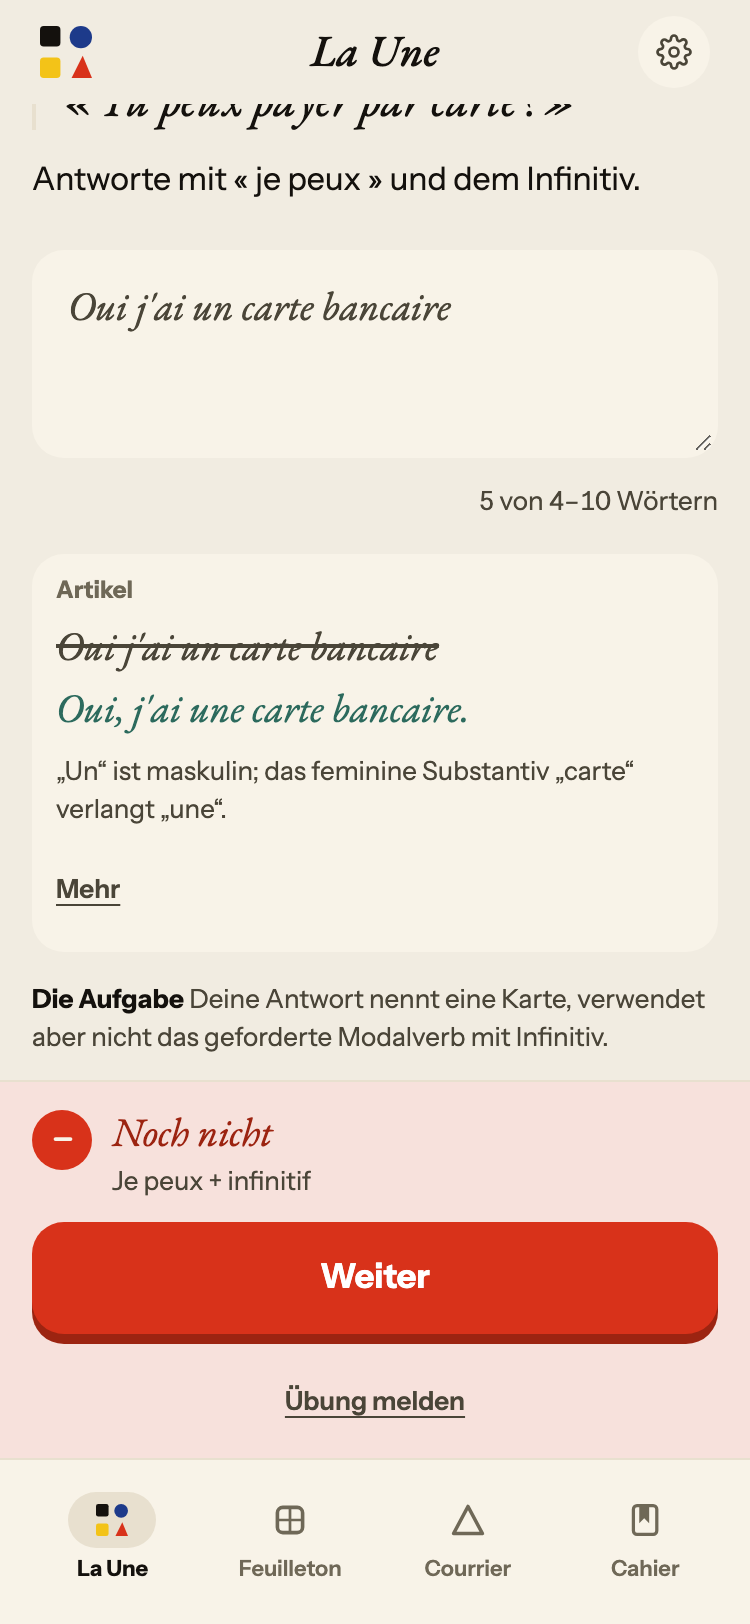
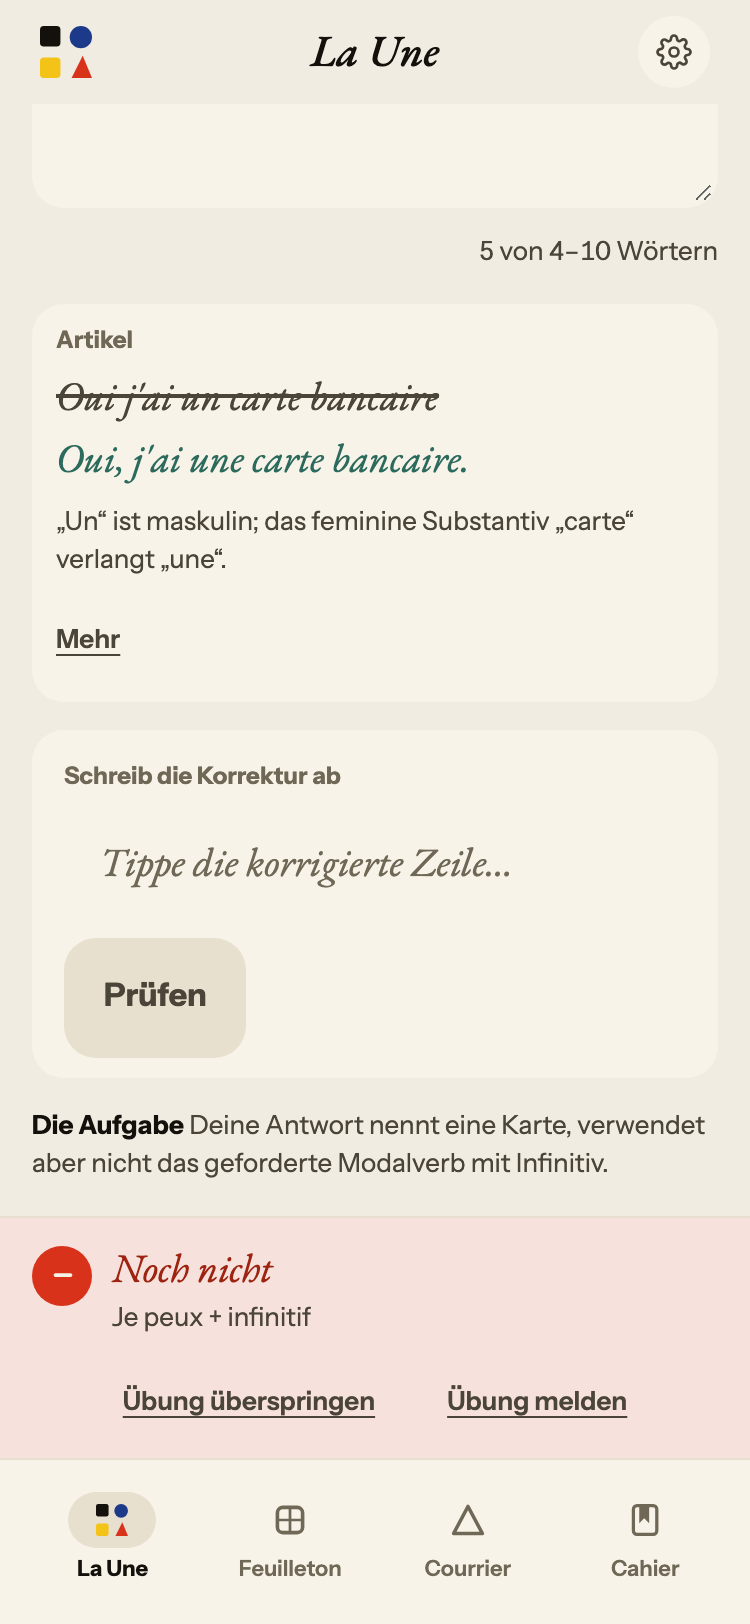
La Forge second chance: CI repairs after the merge with main
- ruff UP035: Iterable comes from collections.abc (solution_gate.py).
- OpenAPI: types/generated/api.ts regenerated for POST /atelier/attempts/{id}/reveal
  (npm run types:generate); this also fixes the frontend job's freshness test.
- Walk drill-shows-a-goal: a scene prompt says its situation and instruction as sans
  prose (.ep-situation/.ep-instruction), no longer as .av2-headline/.av2-body--lg; the
  walk now reads them (driver.mjs `scene`).
- Walk forge-miss-correction-above-the-sheet (season day 10): «Show the solution»
  swaps in a taller card without changing the scroll effect's inputs, so the page
  never scrolled it clear. The effect now re-runs on the solution state.
- After «Show the solution» the walk waits for «Continue» or the copy field (#779).
- After screenshots regenerated (the shown miss now has main's copy step).

diff --git a/web-frontend/components/epreuve/forge-reading.test.js b/web-frontend/components/epreuve/forge-reading.test.js
@@ -125,3 +125,27 @@ test('the new CSS uses tokens only', () => {
   assert.doesNotMatch(block, /#[0-9a-f]{3,6}\b/i);
   assert.doesNotMatch(block, /text-transform: uppercase/);
 });
+
+test('the walk reads a scene prompt\'s situation and instruction as the drill\'s goal', () => {
+  const driver = fs.readFileSync(path.join(WEB_ROOT, 'e2e/lib/driver.mjs'), 'utf8');
+  assert.match(driver, /scene: q\('\.ep-prompt--scene \.ep-situation, \.ep-prompt--scene \.ep-instruction, \.ep-prompt--scene \.ep-cue'\)/);
+  const walk = fs.readFileSync(path.join(WEB_ROOT, 'e2e/lib/learner-walk.mjs'), 'utf8');
+  assert.match(walk, /const goalText = \[\.\.\.s\.goal, \.\.\.s\.bodyLg, \.\.\.s\.headline, \.\.\.\(s\.scene \|\| \[\]\)\]/);
+  // The classes the walk reads are the ones EpScenePrompt renders.
+  for (const cls of ['ep-prompt ep-prompt--scene', 'ep-situation', 'ep-instruction', 'ep-cue ep-cue--quiet']) {
+    assert.ok(EPREUVE.includes(`className="${cls}"`), cls);
+  }
+});
+
+test('«Show the solution» starts the miss scroll again for the new card', () => {
+  const moment = slice(PAGE, 'export function ExerciseFeedbackMoment(', 'function ConceptRulePanel(');
+  assert.match(moment, /const solutionShown = solutionState\(correction\);/);
+  assert.match(moment, /\}, \[feedbackKey, shownVerdict, repairOutcome, missOpen, solutionShown\]\);/);
+});
+
+test('after the solution, a whole line is copied (main #779), never offered as a retry', () => {
+  const moment = slice(PAGE, 'export function ExerciseFeedbackMoment(', 'function ConceptRulePanel(');
+  assert.match(moment, /const canGoOn = repairsComplete;/);
+  assert.match(moment, /const retry = retryOffered\(correction\) \? onTryAgain : undefined;/);
+  assert.match(moment, /!\(index === 0 && partsShown\) && !lineCopiedAbove && \(\s*<EpRepair/);
+});

diff --git a/app/services/solution_gate.py b/app/services/solution_gate.py
@@ -30,7 +30,8 @@ from __future__ import annotations
 import copy
 import re
 import unicodedata
-from typing import Any, Iterable
+from collections.abc import Iterable
+from typing import Any
 
 STATE_KEY = "solution"
 WITHHELD = "withheld"
